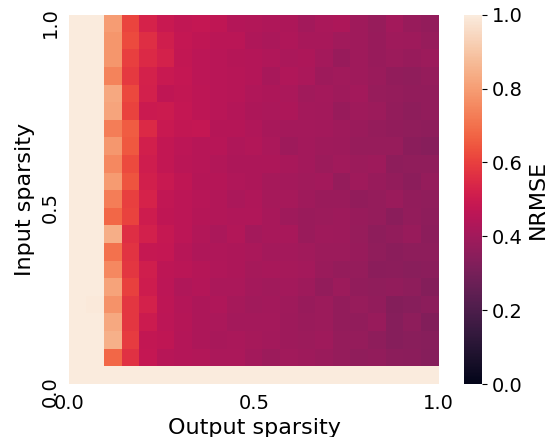
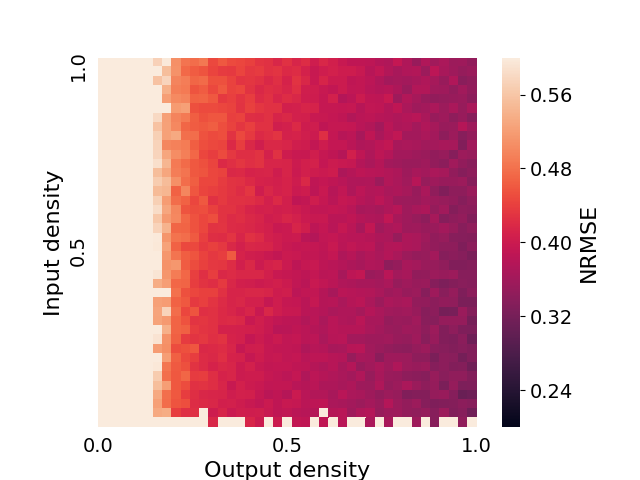
Partial visibility in a single figure.

diff --git a/py/plot.py b/py/plot.py
@@ -102,20 +102,22 @@ def grid_search_output_density(dataset):
 
 
 def grid_search_partial_visibility(dataset):
-    input_density = np.arange(0.0, 1.025, 0.025)
-    output_density = np.arange(0.0, 1.025, 0.025)
-    params = {
-        'w_in_density': input_density,
-        'w_out_density': output_density
-    }
+    nrmses = pickle.load(open('tmp/' + '11-04-2019 13:35:38', 'rb'))
 
-    nrmses = evaluate_esn_2d(dataset, params, eval_partial_visibility,
-                             runs_per_iteration=10)
-    pickle.dump(nrmses, open('tmp/' + get_time(), 'wb'))
+    # input_density = np.arange(0.0, 1.025, 0.025)
+    # output_density = np.arange(0.0, 1.025, 0.025)
+    # params = {
+    #     'w_in_density': input_density,
+    #     'w_out_density': output_density
+    # }
+
+    # nrmses = evaluate_esn_2d(dataset, params, eval_partial_visibility,
+    #                          runs_per_iteration=10)
+    # pickle.dump(nrmses, open('tmp/' + get_time(), 'wb'))
 
     set_font_sizes()
 
-    sns.heatmap(list(reversed(nrmses)), vmin=0.2, vmax=0.5, square=True)
+    sns.heatmap(list(reversed(nrmses)), vmin=0.2, vmax=0.6, square=True)
     ax = plt.axes()
 
     # Fix half cells at the top and bottom. This is a current bug in Matplotlib.
@@ -134,6 +136,8 @@ def grid_search_partial_visibility(dataset):
     plt.ylabel('Input density')
     ax.collections[0].colorbar.set_label('NRMSE')
 
+    plt.margins(0.0)
+    plt.savefig('plots/' + get_time())
     plt.show()
 
 
